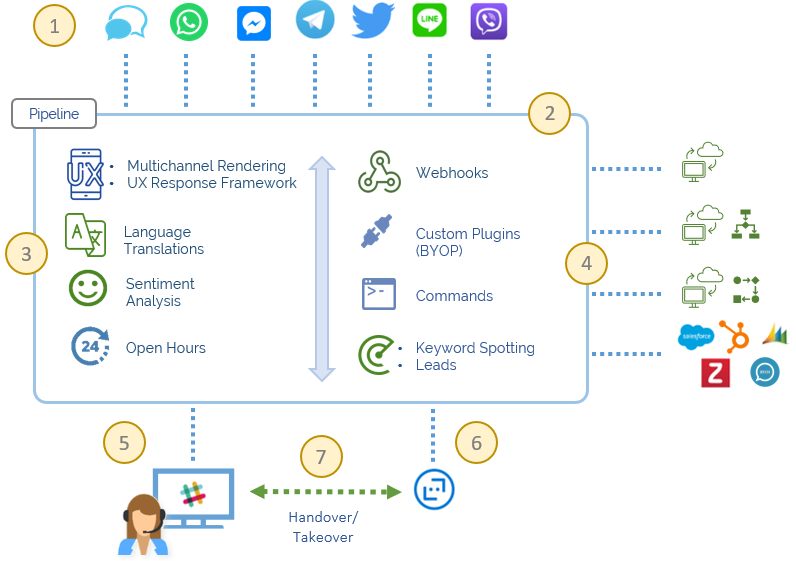
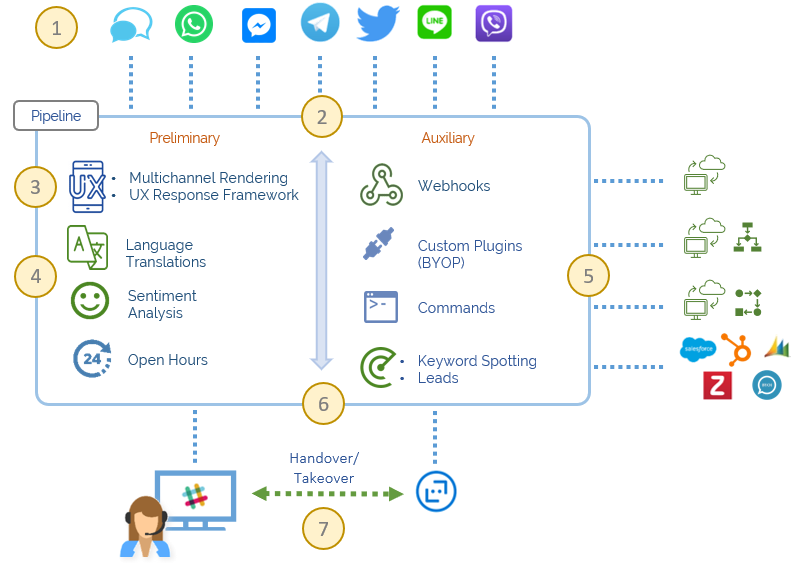
intro

Changed region(s): [[0.0, 0.0, 0.9962, 1.0], [0.4528, 0.2727, 0.6642, 0.4848], [0.5132, 0.2424, 0.6038, 0.2727]]

diff --git a/docs/intro/big_picture.rst b/docs/intro/big_picture.rst
@@ -6,35 +6,36 @@ Hubster’s 10,000 - foot, High Level Architecture
 
 Hubster’s platform was designed with simplicity in mind, yet power enough to allow a business to extend the platform to meet their specific needs, on a per hub basis. 
 
-Engine
-******
+**Engine**
 
 .. image:: images/arch_full.png
 
 **Hubster’s Engine workflow and feature annotation:**
 
-#. Customer channels initiate a conversation with the engine
-#. The engine detects the request and reverse engineers [link to UX] the channel’s proprietary format to common Hubster format.
-#. The engine reads the channel’s Hub configuration and determines if there are any preliminary pipeline actions to take:
-#. Once preliminary actions have been completed, the engine then determines if there are any auxillary actions to take:
+#. A customer channel initiates a conversation with the engine
+#. The engine reads the channel’s :ref:`hub<ref_hub_anatomy>` configuration and starts the :ref:`pipeline<ref_pipeline>` workflow
+#. The pipeline :ref:`reverse engineers<ref_ux_framework>` the channel’s proprietary format and constructs a common Hubster format known as an **activity**
+#. Based on the hub’s configuration and channel :ref:`source type<ref_source>`, the pipeline determines the appropriate **preliminary** flow actions required
+#. The pipeline then determines the appropriate **auxiliary** flow actions required
+#. Once both **preliminary** and **auxiliary** flows have been executed, the pipeline then determines the **active business destination** and reverse engineers the activity to the proprietary format specific to the destination source – agent or bot
+#. The agent may initiate a **takeover** from a bot, handle the request, and eventually **handover** the conversation back to the bot. Conversely, if the bot has difficulty handling a request, the bot can initiate a **handover** and redirect the conversation to the agent.
 
-    * Are there any custom plugins configured?
-    * Are there any webhooks configure and what filter rule should be triggered?
-    * Are there any keyword spotting phrases configured and if so, what CRM endpoint should be invoked?
-    * What is the active business destination (agent or bot)?
-
-#. If an agent is the **active business destination**, the engine will send the rendered response to the agent's configured endpoint.
-#. If a bot is the **active business destination**, the engine will send appropriate response to the bot's configured endpoint.
-
+.. _ref_hub_anatomy:
 
 The Hub Anatomy	
 ^^^^^^^^^^^^^^^
 
-Engine Pipeline
-^^^^^^^^^^^^^^^
+.. _ref_pipeline:
+
+Pipeline
+^^^^^^^^
+
 
 Bring your own Integration (BYOI)
 ^^^^^^^^^^^^^^^^^^^^^^^^^^^^^^^^^
+
+
+.. _ref_ux_framework:
 
 UX Multi-rendering/Response Framework
 ^^^^^^^^^^^^^^^^^^^^^^^^^^^^^^^^^^^^^

diff --git a/docs/intro/terminology.rst b/docs/intro/terminology.rst
@@ -1,63 +1,7 @@
 Terminology
 ===========
 
-The specs, documentation and object model use a certain terminology that you should be aware of.
+.. _ref_source:
 
-.. image:: images/terminology.png
-
-IdentityServer
-^^^^^^^^^^^^^^
-IdentityServer is an OpenID Connect provider - it implements the OpenID Connect and OAuth 2.0 protocols.
-
-Different literature uses different terms for the same role - you probably also find security token service,
-identity provider, authorization server, IP-STS and more.
-
-But they are in a nutshell all the same: a piece of software that issues security tokens to clients.
-
-IdentityServer has a number of jobs and features - including:
-
-* protect your resources
-
-* authenticate users using a local account store or via an external identity provider
-
-* provide session management and single sign-on
-
-* manage and authenticate clients
-
-* issue identity and access tokens to clients
-
-* validate tokens
-
-User
-^^^^
-A user is a human that is using a registered client to access resources.
-
-Client
+Source
 ^^^^^^
-A client is a piece of software that requests tokens from IdentityServer - either for authenticating a user (requesting an identity token) 
-or for accessing a resource (requesting an access token). A client must be first registered with IdentityServer before it can request tokens.
-
-Examples for clients are web applications, native mobile or desktop applications, SPAs, server processes etc.
-
-Resources
-^^^^^^^^^
-Resources are something you want to protect with IdentityServer - either identity data of your users, or APIs. 
-
-Every resource has a unique name - and clients use this name to specify to which resources they want to get access to.
-
-**Identity data**
-Identity information (aka claims) about a user, e.g. name or email address.
-
-**APIs**
-APIs resources represent functionality a client wants to invoke - typically modelled as Web APIs, but not necessarily.
-
-Identity Token
-^^^^^^^^^^^^^^
-An identity token represents the outcome of an authentication process. It contains at a bare minimum an identifier for the user 
-(called the `sub` aka subject claim) and information about how and when the user authenticated.  It can contain additional identity data.
-
-Access Token
-^^^^^^^^^^^^
-An access token allows access to an API resource. Clients request access tokens and forward them to the API. 
-Access tokens contain information about the client and the user (if present).
-APIs use that information to authorize access to their data.

diff --git a/docs/api/0_overview.rst b/docs/api/0_overview.rst
@@ -13,8 +13,23 @@ The quickstarts provide step by step instructions for various common IdentitySer
 They start with the absolute basics and become more complex -
 it is recommended you do them in order. Test.
 
+Identity to API Resource Interaction 
+^^^^^^^^^^^^^^^^^^^^^^^^^^^^^^^^^^^^
+
+The quickstarts provide step by step instructions for various common IdentityServer scenarios.
+They start with the absolute basics and become more complex -
+it is recommended you do them in order. Test.
+
+
 Standard Error Response
 ^^^^^^^^^^^^^^^^^^^^^^^
+
+The quickstarts provide step by step instructions for various common IdentityServer scenarios.
+They start with the absolute basics and become more complex -
+it is recommended you do them in order. Test.
+
+Paginated Results 
+^^^^^^^^^^^^^^^^^^
 
 The quickstarts provide step by step instructions for various common IdentityServer scenarios.
 They start with the absolute basics and become more complex -
